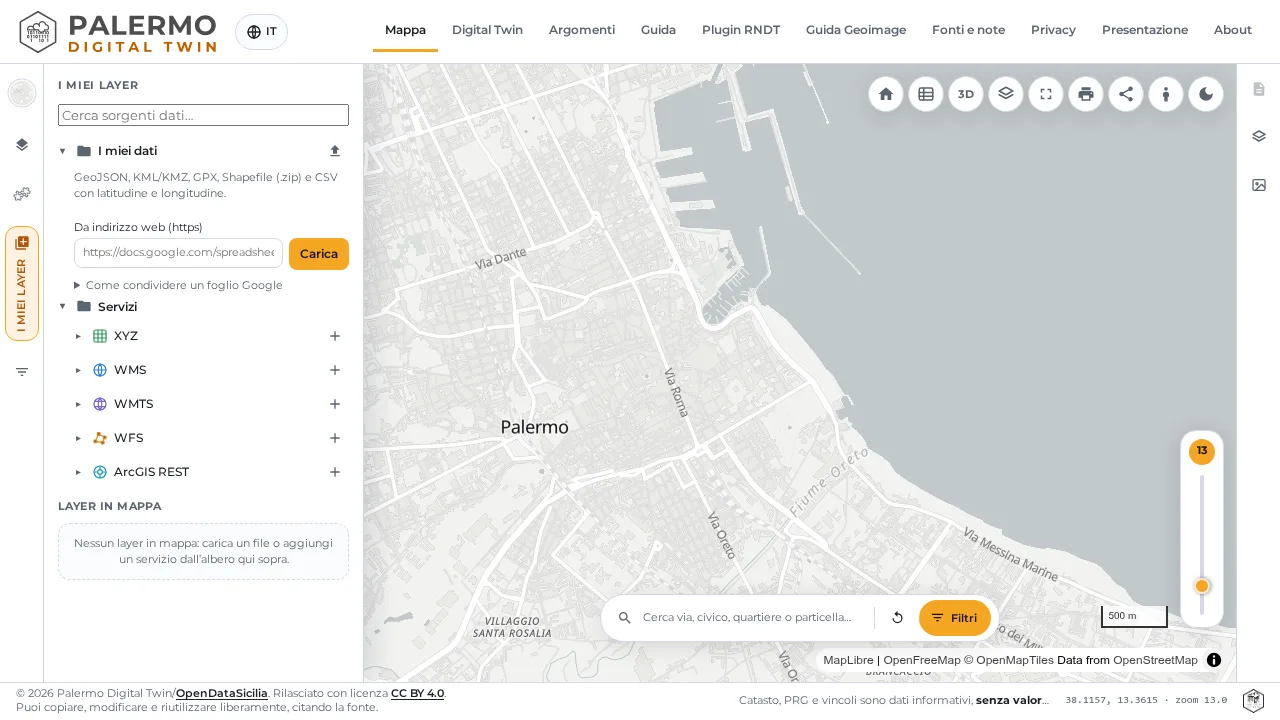
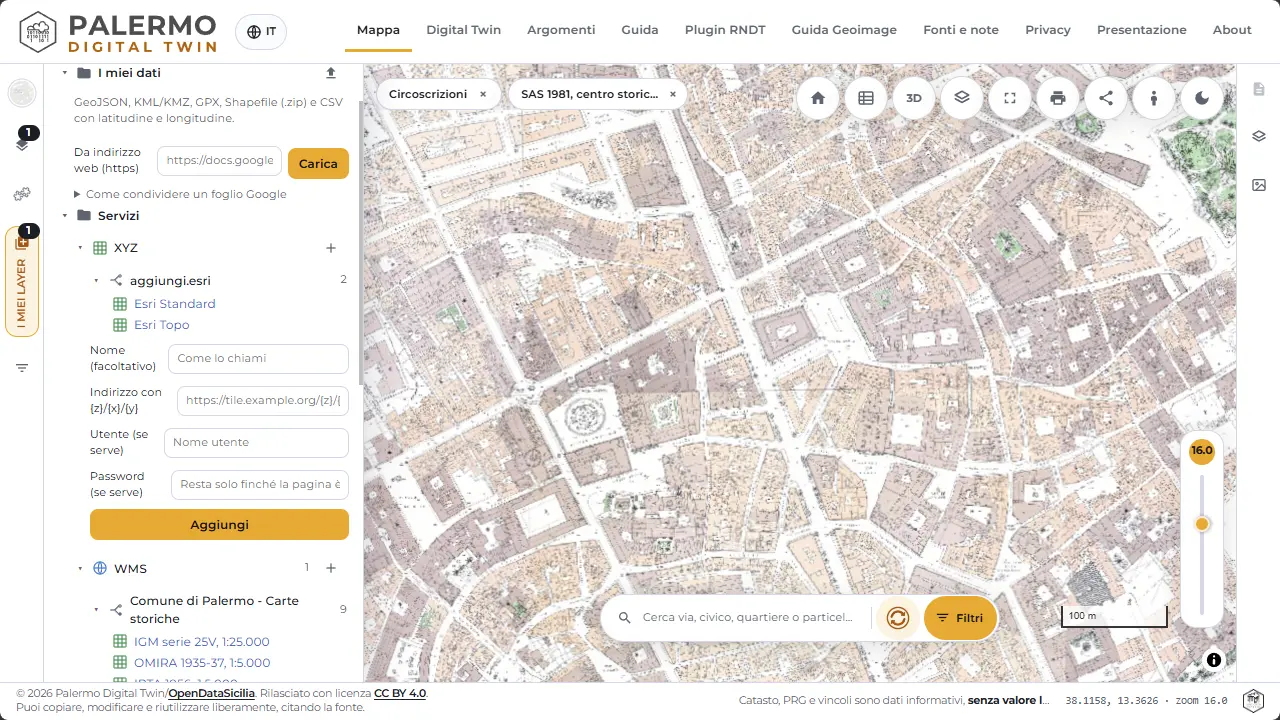
docs(guida): nel paragrafo «I miei layer» si dice che alcuni servizi XYZ, WMS Sispi e ArcGIS SITR sono precaricati a titolo di esempio; sw dt-v64

diff --git a/js/core/guida-contenuti.js b/js/core/guida-contenuti.js
@@ -94,6 +94,7 @@ export const PASSI = [
     paragrafi: [
       'Il tab «I miei layer» funziona come il Browser di QGIS. Sotto «I miei dati» si caricano file dal computer (GeoJSON, KML, KMZ, GPX, Shapefile in zip, CSV con latitudine e longitudine) o da un indirizzo https, anche un foglio Google Sheets condiviso con «Chiunque abbia il link». Sotto «Servizi» c\'è un ramo per tipo: XYZ, WMS, WMTS, WFS e ArcGIS REST; il pulsante «+» aggiunge un servizio e «Leggi il servizio» ne mostra i layer da spuntare.',
       'I servizi aggiunti restano salvati nel browser (fino a cinquanta): un clic su una riga li rimette in mappa, il cestino li toglie dall\'elenco. Per i servizi protetti ci sono i campi utente e password, che restano in memoria solo finché la pagina è aperta: alla riapertura il servizio mostra un lucchetto e la password va inserita di nuovo. Per ArcGIS REST si può incollare un token nell\'indirizzo. I dati si vedono entro l\'area di Palermo e i layer aggiunti compaiono sotto «Layer in mappa», con casella, opacità e frecce per l\'ordine.',
+      'Per provare subito il tab, sono già caricati a titolo di esempio alcuni servizi XYZ, i servizi WMS del Comune di Palermo (Sispi) e i servizi ArcGIS REST del SITR della Regione Siciliana.',
     ],
     immagine: { file: 'img/guida/passi/miei-layer.webp', alt: 'Il tab I miei layer: il campo di ricerca, la voce I miei dati con il campo per l\'indirizzo web, i rami dei servizi XYZ, WMS, WMTS, WFS e ArcGIS REST con il pulsante più, e l\'elenco dei layer in mappa.', didascalia: 'Il tab «I miei layer»: file, indirizzi web e servizi.' },
     narrazione: 'Nel tab i miei layer puoi aggiungere i tuoi dati. Carichi un file dal computer o da un indirizzo web, oppure aggiungi un servizio: X Y Z, W M S, W M T S, W F S o Arc G I S. I servizi restano salvati nel browser, e per quelli protetti utente e password restano in memoria solo finché la pagina è aperta.',

diff --git a/sw.js b/sw.js
@@ -5,7 +5,7 @@
 //  - file statici dell'app (js, css, immagini, caratteri): copia salvata subito e aggiornamento in secondo piano;
 //  - tutto il resto (altri siti, tile con richieste a intervalli di byte, POST): non si tocca.
 // Per rilasciare una versione nuova basta cambiare VERSIONE: le cache vecchie si cancellano all'attivazione.
-const VERSIONE = 'dt-v63';
+const VERSIONE = 'dt-v64';
 const STATICA = `${VERSIONE}-statica`;
 const DATI = `${VERSIONE}-dati`;
 
